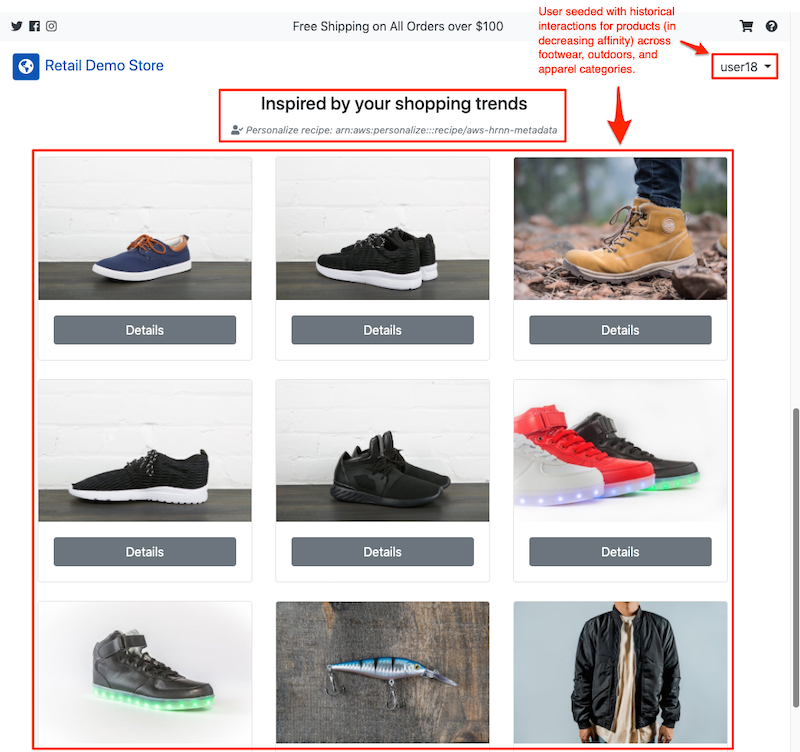
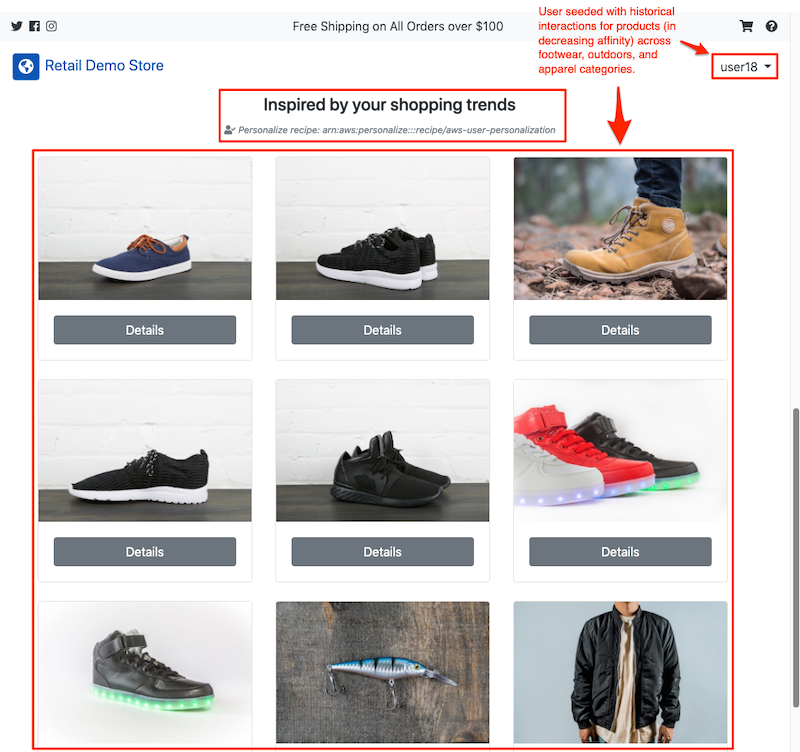
user-personalization recipe

Changed region(s): [[0.2812, 0.1223, 0.6875, 0.1835]]

diff --git a/src/aws-lambda/personalize-pre-create-campaigns/personalize-pre-create-campaigns.py b/src/aws-lambda/personalize-pre-create-campaigns/personalize-pre-create-campaigns.py
@@ -551,7 +551,7 @@ def lambda_handler(event, context):
     # Create related product, product recommendation, and rerank solutions if they doesn't exist
     related_recipe_arn = "arn:aws:personalize:::recipe/aws-sims"
     related_solution_name = related_campaign_name = "retaildemostore-related-products"
-    product_recipe_arn = "arn:aws:personalize:::recipe/aws-hrnn-metadata"
+    product_recipe_arn = "arn:aws:personalize:::recipe/aws-user-personalization"
     product_solution_name = product_campaign_name = "retaildemostore-product-personalization"
     rerank_recipe_arn = "arn:aws:personalize:::recipe/aws-personalized-ranking"
     rerank_solution_name = rerank_campaign_name = "retaildemostore-personalized-ranking"
